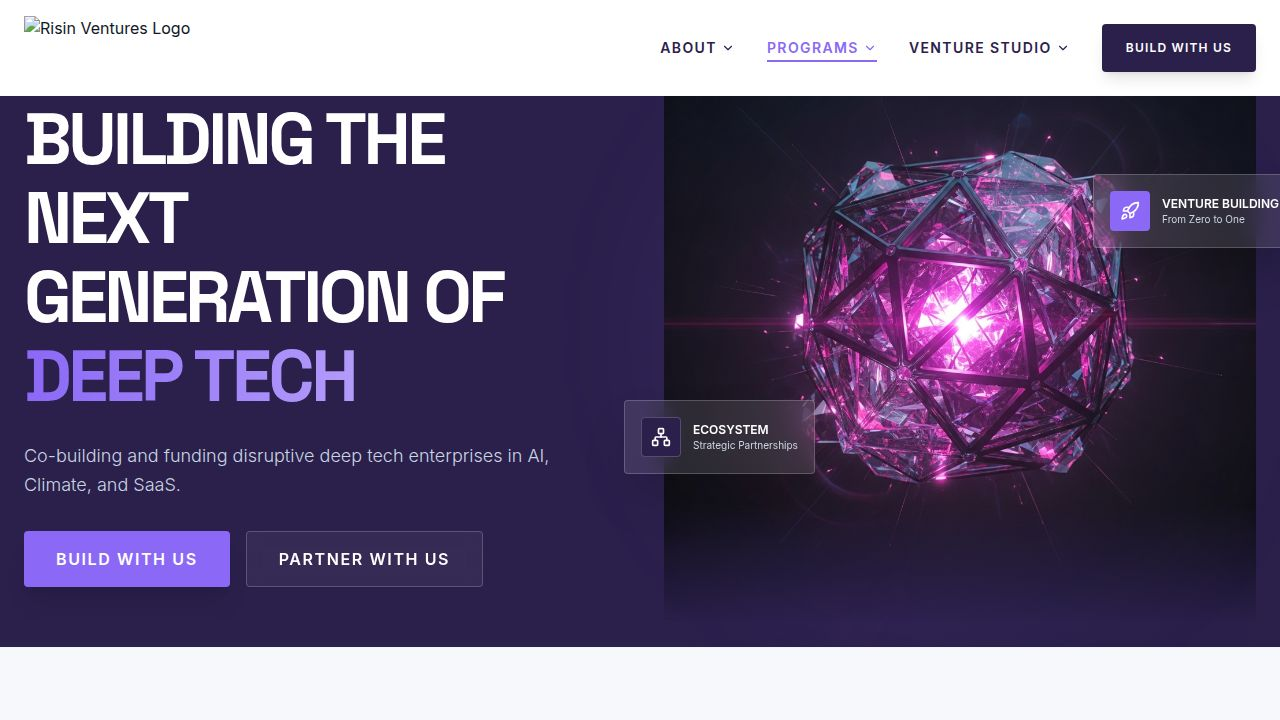
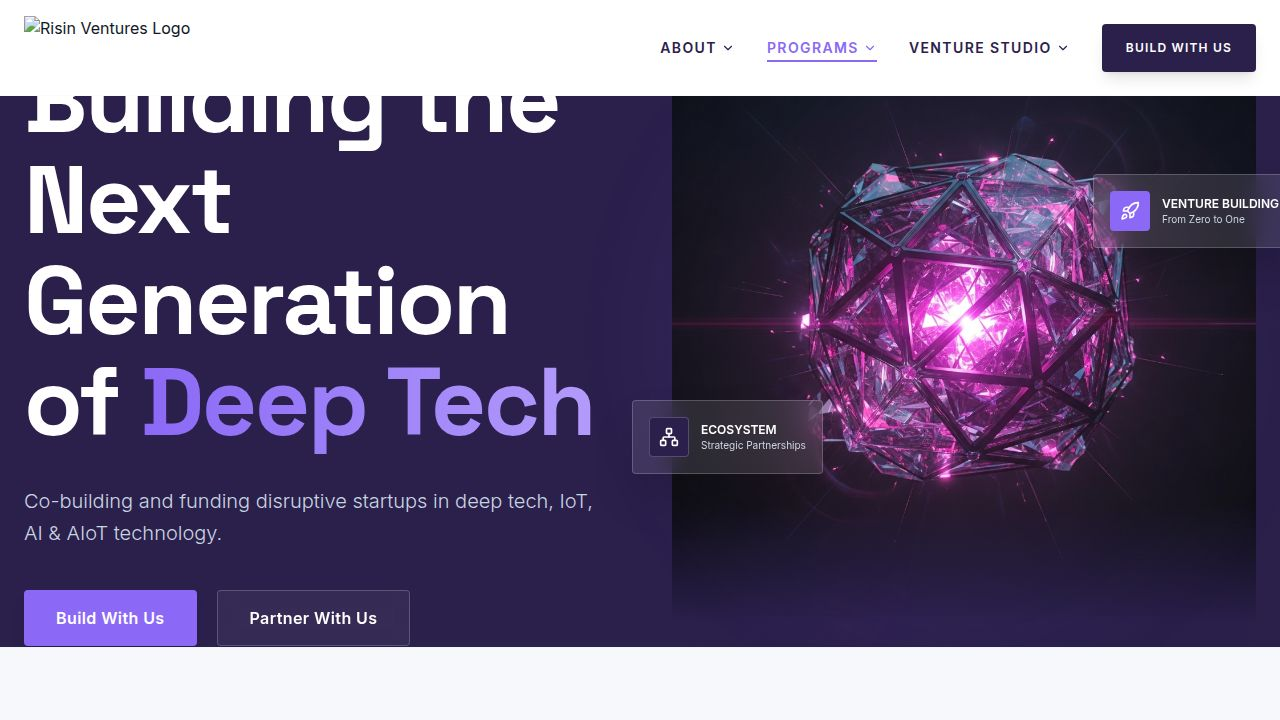
Update home page hero section subtext to reflect new tech focus
Update hero section subtext in `client/src/pages/home.tsx` to "Co-building and funding disruptive startups in deep tech, IoT, AI & AIoT technology." and adjust section spacing.

Replit-Commit-Author: Agent
Replit-Commit-Session-Id: 23baef1f-b26f-43f5-9137-689a9b7b36e4
Replit-Commit-Checkpoint-Type: full_checkpoint
Replit-Commit-Event-Id: 2a682724-5840-49ae-988f-aa40034289b3
Replit-Commit-Screenshot-Url: https://storage.googleapis.com/screenshot-production-us-central1/cc07027b-045f-4853-a9cd-9c7ce4d7e895/23baef1f-b26f-43f5-9137-689a9b7b36e4/vi1Yk65
Replit-Helium-Checkpoint-Created: true

diff --git a/client/src/pages/home.tsx b/client/src/pages/home.tsx
@@ -283,7 +283,7 @@ export default function Home() {
                 variants={fadeIn}
                 className="text-lg md:text-xl text-slate-300 max-w-xl mb-10 font-light leading-relaxed"
               >
-                Co-building and funding disruptive deep tech enterprises in AI, Climate, and SaaS.
+                Co-building and funding disruptive startups in deep tech, IoT, AI & AIoT technology.
               </motion.p>
 
               <motion.div variants={fadeIn} className="flex flex-col sm:flex-row gap-5">
